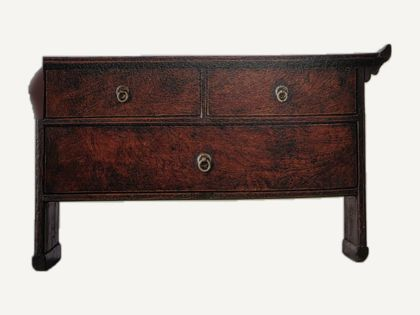
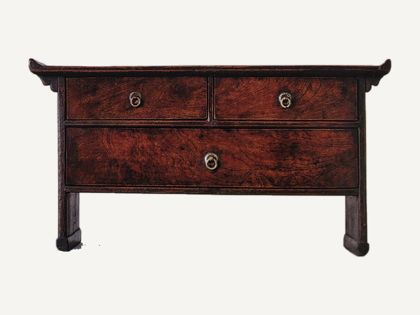
묵갤러리 서안(14번) 썸네일 교체
Claude-Session: https://claude.ai/code/session_0114wugw7GWov4PZ49bSWWjo

Changed region(s): [[0.0619, 0.1429, 0.9595, 0.8857]]

diff --git a/mukgallery.html b/mukgallery.html
@@ -103,7 +103,7 @@ dialog::backdrop{background:rgba(20,18,15,.55)}
 <script type="application/json" id="ds-items">[{"portal": "약장", "id": "M01", "name": "약장", "hanja": "", "kind": "약장", "type": "", "size_raw": "93.5×29×37.5", "era": "19세기", "owner": "묵갤러리 · 김미혜 소장", "page": ""}, {"portal": "약장", "id": "M02", "name": "약장", "hanja": "", "kind": "약장", "type": "", "size_raw": "75.7×29×105.5", "era": "19세기", "owner": "묵갤러리 · 김미혜 소장", "page": ""}, {"portal": "약장", "id": "M03", "name": "약장", "hanja": "", "kind": "약장", "type": "", "size_raw": "89.5×23×128", "era": "19세기", "owner": "묵갤러리 · 김미혜 소장", "page": ""}, {"portal": "반닫이", "id": "M04", "name": "숭쑹이 반닫이(맞뚫임 장식)", "hanja": "", "kind": "반닫이", "type": "", "size_raw": "96.5×46.5×95", "era": "19세기", "owner": "묵갤러리 · 김미혜 소장", "page": ""}, {"portal": "반닫이", "id": "M05", "name": "숭쑹이 반닫이", "hanja": "", "kind": "반닫이", "type": "", "size_raw": "51×32×51", "era": "19세기 후반", "owner": "묵갤러리 · 김미혜 소장", "page": ""}, {"portal": "반닫이", "id": "M06", "name": "강화 반닫이", "hanja": "", "kind": "반닫이", "type": "", "size_raw": "79×43.5×65.5", "era": "19세기", "owner": "묵갤러리 · 김미혜 소장", "page": ""}, {"portal": "반닫이", "id": "M07", "name": "반닫이(하문갑 구조)", "hanja": "", "kind": "반닫이", "type": "", "size_raw": "72.5×34.5×64", "era": "19세기", "owner": "묵갤러리 · 김미혜 소장", "page": ""}, {"portal": "반닫이", "id": "M08", "name": "밀양 반닫이", "hanja": "", "kind": "반닫이", "type": "", "size_raw": "79×41×60", "era": "19세기 후반", "owner": "묵갤러리 · 김미혜 소장", "page": ""}, {"portal": "반닫이", "id": "M09", "name": "나주 반닫이(문갑 구조)", "hanja": "", "kind": "반닫이", "type": "", "size_raw": "106×40×95", "era": "19세기", "owner": "묵갤러리 · 김미혜 소장", "page": ""}, {"portal": "서안", "id": "M10", "name": "서안", "hanja": "書案", "kind": "서안·경상·소반", "type": "", "size_raw": "68×31×33", "era": "19세기", "owner": "묵갤러리 · 김미혜 소장", "page": ""}, {"portal": "소반", "id": "M11", "name": "해주소반", "hanja": "", "kind": "서안·경상·소반", "type": "", "size_raw": "14.5×29.5×26", "era": "19세기", "owner": "묵갤러리 · 김미혜 소장", "page": ""}, {"portal": "서안", "id": "M12", "name": "경상", "hanja": "經床", "kind": "서안·경상·소반", "type": "", "size_raw": "64.5×23.5×25", "era": "19세기", "owner": "묵갤러리 · 김미혜 소장", "page": ""}, {"portal": "서안", "id": "M13", "name": "서안", "hanja": "書案", "kind": "서안·경상·소반", "type": "", "size_raw": "50×24×23", "era": "19세기", "owner": "묵갤러리 · 김미혜 소장", "page": ""}, {"portal": "서안", "id": "M14", "name": "서안", "hanja": "書案", "kind": "서안·경상·소반", "type": "", "size_raw": "56.5×28.5×29", "era": "19세기", "owner": "묵갤러리 · 김미혜 소장", "page": ""}, {"portal": "서안", "id": "M15", "name": "서안", "hanja": "書案", "kind": "서안·경상·소반", "type": "", "size_raw": "69×29×39", "era": "19세기", "owner": "묵갤러리 · 김미혜 소장", "page": ""}, {"portal": "장·농", "id": "M16", "name": "이층책장(미닫이와 여닫이)", "hanja": "二層冊櫃", "kind": "책장·탁자", "type": "", "size_raw": "104×40×94", "era": "19세기", "owner": "묵갤러리 · 김미혜 소장", "page": ""}, {"portal": "장·농", "id": "M17", "name": "전주장", "hanja": "", "kind": "장·농", "type": "", "size_raw": "76×37×107", "era": "19세기", "owner": "묵갤러리 · 김미혜 소장", "page": ""}, {"portal": "장·농", "id": "M18", "name": "이층농", "hanja": "二層籠", "kind": "장·농", "type": "", "size_raw": "80×39.5×135", "era": "19세기 후반", "owner": "묵갤러리 · 김미혜 소장", "page": ""}, {"portal": "장·농", "id": "M19", "name": "이층농", "hanja": "二層籠", "kind": "장·농", "type": "", "size_raw": "70×39×93.4", "era": "19세기", "owner": "묵갤러리 · 김미혜 소장", "page": ""}, {"portal": "장·농", "id": "M20", "name": "삼층책장(상층 공간)", "hanja": "三層冊櫃", "kind": "책장·탁자", "type": "", "size_raw": "97×52×159", "era": "19세기", "owner": "묵갤러리 · 김미혜 소장", "page": ""}, {"portal": "", "id": "M21", "name": "책궤", "hanja": "冊櫃", "kind": "책장·탁자", "type": "", "size_raw": "72×27.5×50", "era": "19세기", "owner": "묵갤러리 · 김미혜 소장", "page": ""}, {"portal": "장·농", "id": "M22", "name": "책장", "hanja": "", "kind": "책장·탁자", "type": "", "size_raw": "122×42.5×94", "era": "19세기 초반", "owner": "묵갤러리 · 김미혜 소장", "page": ""}, {"portal": "장·농", "id": "M23", "name": "책장", "hanja": "", "kind": "책장·탁자", "type": "", "size_raw": "84×39×66", "era": "19세기 초반", "owner": "묵갤러리 · 김미혜 소장", "page": ""}, {"portal": "", "id": "M24", "name": "갑게수리", "hanja": "甲鎧受理", "kind": "함·상자·소품", "type": "", "size_raw": "107×33×56", "era": "19세기", "owner": "묵갤러리 · 김미혜 소장", "page": ""}, {"portal": "사방탁자", "id": "M25", "name": "사층탁자(유리 그림)", "hanja": "四層卓子", "kind": "책장·탁자", "type": "", "size_raw": "59×37.5×180", "era": "19세기", "owner": "묵갤러리 · 김미혜 소장", "page": ""}, {"portal": "장·농", "id": "M26", "name": "삼층화초장", "hanja": "", "kind": "장·농", "type": "", "size_raw": "104×47.5×152.5", "era": "19세기 후반", "owner": "묵갤러리 · 김미혜 소장", "page": ""}, {"portal": "", "id": "M27", "name": "책탁", "hanja": "冊卓", "kind": "책장·탁자", "type": "", "size_raw": "68×33×105", "era": "19세기 초반", "owner": "묵갤러리 · 김미혜 소장", "page": ""}, {"portal": "장·농", "id": "M28", "name": "삼층책장", "hanja": "三層冊櫃", "kind": "책장·탁자", "type": "", "size_raw": "111×47×160.5", "era": "19세기", "owner": "묵갤러리 · 김미혜 소장", "page": ""}, {"portal": "장·농", "id": "M29", "name": "지장", "hanja": "", "kind": "장·농", "type": "", "size_raw": "103×23×158.5", "era": "19세기", "owner": "묵갤러리 · 김미혜 소장", "page": ""}, {"portal": "", "id": "M30", "name": "향탁", "hanja": "香卓", "kind": "책장·탁자", "type": "", "size_raw": "52×28×61", "era": "19세기 초반", "owner": "묵갤러리 · 김미혜 소장", "page": ""}, {"portal": "", "id": "M31", "name": "고비·등가·촛대", "hanja": "考備", "kind": "함·상자·소품", "type": "", "size_raw": "고비 10.5×6.5×85 · 등가 높이 44 · 촛대 높이 115", "era": "19세기", "owner": "묵갤러리 · 김미혜 소장", "page": ""}, {"portal": "", "id": "M32", "name": "갑게수리", "hanja": "甲鎧受理", "kind": "함·상자·소품", "type": "", "size_raw": "56×29×30.5", "era": "19세기", "owner": "묵갤러리 · 김미혜 소장", "page": ""}, {"portal": "", "id": "M33", "name": "함", "hanja": "函", "kind": "함·상자·소품", "type": "", "size_raw": "48.5×33×17", "era": "19세기", "owner": "묵갤러리 · 김미혜 소장", "page": ""}, {"portal": "", "id": "M34", "name": "엽전궤", "hanja": "葉錢櫃", "kind": "함·상자·소품", "type": "", "size_raw": "92.5×42×48", "era": "19세기 초반", "owner": "묵갤러리 · 김미혜 소장", "page": ""}, {"portal": "", "id": "M35", "name": "약연", "hanja": "", "kind": "함·상자·소품", "type": "", "size_raw": "31×6×5 · 26×9×7.5", "era": "19세기", "owner": "묵갤러리 · 김미혜 소장", "page": ""}, {"portal": "", "id": "M36", "name": "화약통", "hanja": "火藥筒", "kind": "함·상자·소품", "type": "", "size_raw": "11.5×6.5×2.5 · 22×12×5 · 20×11.5×3", "era": "19세기", "owner": "묵갤러리 · 김미혜 소장", "page": ""}, {"portal": "", "id": "M37", "name": "무관용 장식꽃이", "hanja": "", "kind": "함·상자·소품", "type": "", "size_raw": "함 높이 41.5 · 수염 길이 38", "era": "19세기", "owner": "묵갤러리 · 김미혜 소장", "page": ""}]</script>
 <script type="application/json" id="ds-photos">[{"id": "M01", "img": "thumbs/mukgallery/1.jpg?v=20261115"}, {"id": "M02", "img": "thumbs/mukgallery/2.jpg?v=20261115"}, {"id": "M03", "img": "thumbs/mukgallery/3.jpg?v=20261115"}, {"id": "M04", "img": "thumbs/mukgallery/4.jpg?v=20261115"}, {"id": "M05", "img": "thumbs/mukgallery/5.jpg?v=20261115"}, {"id": "M06", "img": "thumbs/mukgallery/6.jpg?v=20261115"}, {"id": "M07", "img": "thumbs/mukgallery/7.jpg?v=20261115"}, {"id": "M08", "img": "thumbs/mukgallery/8.jpg?v=20261115"}, {"id": "M09", "img": "thumbs/mukgallery/9.jpg?v=20261115"}, {"id": "M10", "img": "thumbs/mukgallery/10.jpg?v=20261115"}, {"id": "M11", "img": "thumbs/mukgallery/11.jpg?v=20261115"}, {"id": "M12", "img": "thumbs/mukgallery/12.jpg?v=20261115"}, {"id": "M13", "img": "thumbs/mukgallery/13.jpg?v=20261115"}, {"id": "M14", "img": "thumbs/mukgallery/14.jpg?v=20261115"}, {"id": "M15", "img": "thumbs/mukgallery/15.jpg?v=20261115"}, {"id": "M16", "img": "thumbs/mukgallery/16.jpg?v=20261115"}, {"id": "M17", "img": "thumbs/mukgallery/17.jpg?v=20261115"}, {"id": "M18", "img": "thumbs/mukgallery/18.jpg?v=20261115"}, {"id": "M19", "img": "thumbs/mukgallery/19.jpg?v=20261115"}, {"id": "M20", "img": "thumbs/mukgallery/20.jpg?v=20261115"}, {"id": "M21", "img": "thumbs/mukgallery/21.jpg?v=20261115"}, {"id": "M22", "img": "thumbs/mukgallery/22.jpg?v=20261115"}, {"id": "M23", "img": "thumbs/mukgallery/23.jpg?v=20261115"}, {"id": "M24", "img": "thumbs/mukgallery/24.jpg?v=20261115"}, {"id": "M25", "img": "thumbs/mukgallery/25.jpg?v=20261115"}, {"id": "M26", "img": "thumbs/mukgallery/26.jpg?v=20261115"}, {"id": "M27", "img": "thumbs/mukgallery/27.jpg?v=20261115"}, {"id": "M28", "img": "thumbs/mukgallery/28.jpg?v=20261115"}, {"id": "M29", "img": "thumbs/mukgallery/29.jpg?v=20261115"}, {"id": "M30", "img": "thumbs/mukgallery/30.jpg?v=20261115"}, {"id": "M31", "img": "thumbs/mukgallery/31.jpg?v=20261115"}, {"id": "M32", "img": "thumbs/mukgallery/32.jpg?v=20261115"}, {"id": "M33", "img": "thumbs/mukgallery/33.jpg?v=20261115"}, {"id": "M34", "img": "thumbs/mukgallery/34.jpg?v=20261115"}, {"id": "M35", "img": "thumbs/mukgallery/35.jpg?v=20261115"}, {"id": "M36", "img": "thumbs/mukgallery/36.jpg?v=20261115"}, {"id": "M37", "img": "thumbs/mukgallery/37.jpg?v=20261115"}]</script>
 <script>
-const ITEMS = [{"id": "M01", "kind": "약장", "name": "약장", "hanja": "", "cat": "Medicine Chest", "era": "19세기", "size": "93.5×29×37.5", "wood": "호두나무", "place": "경기도", "memo": "", "no": 1, "pics": [{"src": "https://jungmono.github.io/mokgagu-photos/photos/mukgallery/M01.jpg?v=20261115", "w": 1800, "h": 1350}]}, {"id": "M02", "kind": "약장", "name": "약장", "hanja": "", "cat": "Medicine Chest", "era": "19세기", "size": "75.7×29×105.5", "wood": "오동나무", "place": "", "memo": "작은 약장과 함께 찍은 사진.", "no": 2, "pics": [{"src": "https://jungmono.github.io/mokgagu-photos/photos/mukgallery/M02.jpg?v=20261115", "w": 1800, "h": 1350}]}, {"id": "M03", "kind": "약장", "name": "약장", "hanja": "", "cat": "Medicine Chest", "era": "19세기", "size": "89.5×23×128", "wood": "피나무", "place": "", "memo": "", "no": 3, "pics": [{"src": "https://jungmono.github.io/mokgagu-photos/photos/mukgallery/M03.jpg?v=20261115", "w": 1350, "h": 1800}, {"src": "https://jungmono.github.io/mokgagu-photos/photos/mukgallery/M03-2.jpg?v=20261115", "w": 1350, "h": 1800}]}, {"id": "M04", "kind": "반닫이", "name": "숭쑹이 반닫이(맞뚫임 장식)", "hanja": "", "cat": "Chest with Hinged Front Flap", "era": "19세기", "size": "96.5×46.5×95", "wood": "피나무", "place": "평안도", "memo": "", "no": 4, "pics": [{"src": "https://jungmono.github.io/mokgagu-photos/photos/mukgallery/M04.jpg?v=20261115", "w": 1349, "h": 1800}]}, {"id": "M05", "kind": "반닫이", "name": "숭쑹이 반닫이", "hanja": "", "cat": "Chest with Hinged Front Flap", "era": "19세기 후반", "size": "51×32×51", "wood": "피나무·주칠", "place": "평안도", "memo": "", "no": 5, "pics": [{"src": "https://jungmono.github.io/mokgagu-photos/photos/mukgallery/M05.jpg?v=20261115", "w": 1629, "h": 1221}]}, {"id": "M06", "kind": "반닫이", "name": "강화 반닫이", "hanja": "", "cat": "Chest with Hinged Front Flap", "era": "19세기", "size": "79×43.5×65.5", "wood": "느티나무", "place": "경기도 강화", "memo": "도록 표기: 강화반닫이.", "no": 6, "pics": [{"src": "https://jungmono.github.io/mokgagu-photos/photos/mukgallery/M06.jpg?v=20261115", "w": 1715, "h": 1286}, {"src": "https://jungmono.github.io/mokgagu-photos/photos/mukgallery/M06-2.jpg?v=20261115", "w": 1350, "h": 1800}]}, {"id": "M07", "kind": "반닫이", "name": "반닫이(하문갑 구조)", "hanja": "", "cat": "Chest with Hinged Front Flap", "era": "19세기", "size": "72.5×34.5×64", "wood": "피나무", "place": "", "memo": "", "no": 7, "pics": [{"src": "https://jungmono.github.io/mokgagu-photos/photos/mukgallery/M07.jpg?v=20261115", "w": 1800, "h": 1350}]}, {"id": "M08", "kind": "반닫이", "name": "밀양 반닫이", "hanja": "", "cat": "Chest with Hinged Front Flap", "era": "19세기 후반", "size": "79×41×60", "wood": "느티나무", "place": "경상남도 밀양", "memo": "도록 표기: 반닫이, 경상남도 밀양.", "no": 8, "pics": [{"src": "https://jungmono.github.io/mokgagu-photos/photos/mukgallery/M08.jpg?v=20261115", "w": 1800, "h": 1350}]}, {"id": "M09", "kind": "반닫이", "name": "나주 반닫이(문갑 구조)", "hanja": "", "cat": "Chest with Hinged Front Flap", "era": "19세기", "size": "106×40×95", "wood": "가래나무", "place": "전라남도 나주", "memo": "도록 표기: 반닫이(문갑 구조), 전라남도 나주.", "no": 9, "pics": [{"src": "https://jungmono.github.io/mokgagu-photos/photos/mukgallery/M09.jpg?v=20261115", "w": 1731, "h": 1298}, {"src": "https://jungmono.github.io/mokgagu-photos/photos/mukgallery/M09-2.jpg?v=20261115", "w": 1350, "h": 1800}]}, {"id": "M10", "kind": "서안·경상·소반", "name": "서안", "hanja": "書案", "cat": "Writing Desk", "era": "19세기", "size": "68×31×33", "wood": "느티나무", "place": "", "memo": "", "no": 10, "pics": [{"src": "https://jungmono.github.io/mokgagu-photos/photos/mukgallery/M10.jpg?v=20261115", "w": 1732, "h": 1299}]}, {"id": "M11", "kind": "서안·경상·소반", "name": "해주소반", "hanja": "", "cat": "Portable Table", "era": "19세기", "size": "14.5×29.5×26", "wood": "은행나무", "place": "황해도 해주", "memo": "크기는 도록 표기 그대로.", "no": 11, "pics": [{"src": "https://jungmono.github.io/mokgagu-photos/photos/mukgallery/M11.jpg?v=20261115", "w": 1800, "h": 1350}]}, {"id": "M12", "kind": "서안·경상·소반", "name": "경상", "hanja": "經床", "cat": "Scholar's Desk", "era": "19세기", "size": "64.5×23.5×25", "wood": "참죽나무", "place": "", "memo": "", "no": 12, "pics": [{"src": "https://jungmono.github.io/mokgagu-photos/photos/mukgallery/M12.jpg?v=20261115", "w": 1800, "h": 1350}]}, {"id": "M13", "kind": "서안·경상·소반", "name": "서안", "hanja": "書案", "cat": "Writing Desk", "era": "19세기", "size": "50×24×23", "wood": "은행나무", "place": "", "memo": "한 쪽에 두 점이 실림(위).", "no": 13, "pics": [{"src": "https://jungmono.github.io/mokgagu-photos/photos/mukgallery/M13.jpg?v=20261115", "w": 1360, "h": 1020}]}, {"id": "M14", "kind": "서안·경상·소반", "name": "서안", "hanja": "書案", "cat": "Writing Desk", "era": "19세기", "size": "56.5×28.5×29", "wood": "은행나무", "place": "", "memo": "한 쪽에 두 점이 실림(아래).", "no": 14, "pics": [{"src": "https://jungmono.github.io/mokgagu-photos/photos/mukgallery/M14.jpg?v=20261115", "w": 1394, "h": 1046}]}, {"id": "M15", "kind": "서안·경상·소반", "name": "서안", "hanja": "書案", "cat": "Writing Desk", "era": "19세기", "size": "69×29×39", "wood": "참죽나무", "place": "", "memo": "", "no": 15, "pics": [{"src": "https://jungmono.github.io/mokgagu-photos/photos/mukgallery/M15.jpg?v=20261115", "w": 1601, "h": 1201}]}, {"id": "M16", "kind": "책장·탁자", "name": "이층책장(미닫이와 여닫이)", "hanja": "二層冊櫃", "cat": "Two-tiered Book Chest", "era": "19세기", "size": "104×40×94", "wood": "참죽나무", "place": "경상남도 통영", "memo": "", "no": 16, "pics": [{"src": "https://jungmono.github.io/mokgagu-photos/photos/mukgallery/M16.jpg?v=20261115", "w": 1350, "h": 1800}]}, {"id": "M17", "kind": "장·농", "name": "전주장", "hanja": "", "cat": "Two-tiered Chest", "era": "19세기", "size": "76×37×107", "wood": "느티나무", "place": "전라북도 전주", "memo": "", "no": 17, "pics": [{"src": "https://jungmono.github.io/mokgagu-photos/photos/mukgallery/M17.jpg?v=20261115", "w": 1350, "h": 1800}]}, {"id": "M18", "kind": "장·농", "name": "이층농", "hanja": "二層籠", "cat": "Two-tiered Chest Inlaid with Mother-of-pearl", "era": "19세기 후반", "size": "80×39.5×135", "wood": "주칠·나전", "place": "경기도", "memo": "", "no": 18, "pics": [{"src": "https://jungmono.github.io/mokgagu-photos/photos/mukgallery/M18.jpg?v=20261115", "w": 1350, "h": 1800}, {"src": "https://jungmono.github.io/mokgagu-photos/photos/mukgallery/M18-2.jpg?v=20261115", "w": 1350, "h": 1800}]}, {"id": "M19", "kind": "장·농", "name": "이층농", "hanja": "二層籠", "cat": "Two-tiered Chest", "era": "19세기", "size": "70×39×93.4", "wood": "오동나무", "place": "경기도", "memo": "", "no": 19, "pics": [{"src": "https://jungmono.github.io/mokgagu-photos/photos/mukgallery/M19.jpg?v=20261115", "w": 1350, "h": 1800}]}, {"id": "M20", "kind": "책장·탁자", "name": "삼층책장(상층 공간)", "hanja": "三層冊櫃", "cat": "Three-tiered Book Chest", "era": "19세기", "size": "97×52×159", "wood": "물푸레나무", "place": "경기(내사)", "memo": "", "no": 20, "pics": [{"src": "https://jungmono.github.io/mokgagu-photos/photos/mukgallery/M20.jpg?v=20261115", "w": 1350, "h": 1800}]}, {"id": "M21", "kind": "책장·탁자", "name": "책궤", "hanja": "冊櫃", "cat": "Book Chest", "era": "19세기", "size": "72×27.5×50", "wood": "느티나무", "place": "", "memo": "", "no": 21, "pics": [{"src": "https://jungmono.github.io/mokgagu-photos/photos/mukgallery/M21.jpg?v=20261115", "w": 1646, "h": 1235}]}, {"id": "M22", "kind": "책장·탁자", "name": "책장", "hanja": "", "cat": "Book Chest", "era": "19세기 초반", "size": "122×42.5×94", "wood": "벽오동나무", "place": "", "memo": "", "no": 22, "pics": [{"src": "https://jungmono.github.io/mokgagu-photos/photos/mukgallery/M22.jpg?v=20261115", "w": 1800, "h": 1350}]}, {"id": "M23", "kind": "책장·탁자", "name": "책장", "hanja": "", "cat": "Book Chest", "era": "19세기 초반", "size": "84×39×66", "wood": "은행나무", "place": "", "memo": "", "no": 23, "pics": [{"src": "https://jungmono.github.io/mokgagu-photos/photos/mukgallery/M23.jpg?v=20261115", "w": 1786, "h": 1340}, {"src": "https://jungmono.github.io/mokgagu-photos/photos/mukgallery/M23-2.jpg?v=20261115", "w": 1350, "h": 1800}]}, {"id": "M24", "kind": "함·상자·소품", "name": "갑게수리", "hanja": "甲鎧受理", "cat": "Safety Box", "era": "19세기", "size": "107×33×56", "wood": "느티나무", "place": "경기도", "memo": "위쪽 작은 갑게수리는 문을 열어 속 서랍을 보인 사진.", "no": 24, "pics": [{"src": "https://jungmono.github.io/mokgagu-photos/photos/mukgallery/M24.jpg?v=20261115", "w": 1800, "h": 1350}]}, {"id": "M25", "kind": "책장·탁자", "name": "사층탁자(유리 그림)", "hanja": "四層卓子", "cat": "Four-tiered Flower Motive Chest", "era": "19세기", "size": "59×37.5×180", "wood": "화류목·유리", "place": "경기도", "memo": "", "no": 25, "pics": [{"src": "https://jungmono.github.io/mokgagu-photos/photos/mukgallery/M25.jpg?v=20261115", "w": 1350, "h": 1800}]}, {"id": "M26", "kind": "장·농", "name": "삼층화초장", "hanja": "", "cat": "Three-tiered Flower Motive Chest", "era": "19세기 후반", "size": "104×47.5×152.5", "wood": "나무에 주칠", "place": "경기도", "memo": "", "no": 26, "pics": [{"src": "https://jungmono.github.io/mokgagu-photos/photos/mukgallery/M26.jpg?v=20261115", "w": 1351, "h": 1800}]}, {"id": "M27", "kind": "책장·탁자", "name": "책탁", "hanja": "冊卓", "cat": "Book Shelf", "era": "19세기 초반", "size": "68×33×105", "wood": "소나무", "place": "경기도", "memo": "", "no": 27, "pics": [{"src": "https://jungmono.github.io/mokgagu-photos/photos/mukgallery/M27.jpg?v=20261115", "w": 1351, "h": 1800}]}, {"id": "M28", "kind": "책장·탁자", "name": "삼층책장", "hanja": "三層冊櫃", "cat": "Three-tiered Book Chest", "era": "19세기", "size": "111×47×160.5", "wood": "소나무", "place": "경기도", "memo": "", "no": 28, "pics": [{"src": "https://jungmono.github.io/mokgagu-photos/photos/mukgallery/M28.jpg?v=20261115", "w": 1350, "h": 1800}]}, {"id": "M29", "kind": "장·농", "name": "지장", "hanja": "", "cat": "Paper-covered Chest", "era": "19세기", "size": "103×23×158.5", "wood": "소나무", "place": "", "memo": "작은 지장과 함께 찍은 사진.", "no": 29, "pics": [{"src": "https://jungmono.github.io/mokgagu-photos/photos/mukgallery/M29.jpg?v=20261115", "w": 1350, "h": 1800}]}, {"id": "M30", "kind": "책장·탁자", "name": "향탁", "hanja": "香卓", "cat": "Incense Table", "era": "19세기 초반", "size": "52×28×61", "wood": "은행나무(행자목)", "place": "", "memo": "", "no": 30, "pics": [{"src": "https://jungmono.github.io/mokgagu-photos/photos/mukgallery/M30.jpg?v=20261115", "w": 1800, "h": 1350}]}, {"id": "M31", "kind": "함·상자·소품", "name": "고비·등가·촛대", "hanja": "考備", "cat": "Letter Holder · Lamp Stand · Candle Holder", "era": "19세기", "size": "고비 10.5×6.5×85 · 등가 높이 44 · 촛대 높이 115", "wood": "느티나무", "place": "", "memo": "고비는 편지꽂이. 한 쪽에 세 점이 실림.", "no": 31, "pics": [{"src": "https://jungmono.github.io/mokgagu-photos/photos/mukgallery/M31.jpg?v=20261115", "w": 1351, "h": 1800}]}, {"id": "M32", "kind": "함·상자·소품", "name": "갑게수리", "hanja": "甲鎧受理", "cat": "Safety Box", "era": "19세기", "size": "56×29×30.5", "wood": "느티나무(안쪽 피나무)", "place": "", "memo": "한 쪽에 두 점이 실림(위 큰 것).", "no": 32, "pics": [{"src": "https://jungmono.github.io/mokgagu-photos/photos/mukgallery/M32.jpg?v=20261115", "w": 1800, "h": 1350}]}, {"id": "M33", "kind": "함·상자·소품", "name": "함", "hanja": "函", "cat": "Box", "era": "19세기", "size": "48.5×33×17", "wood": "오동나무", "place": "", "memo": "한 쪽에 두 점이 실림(아래).", "no": 33, "pics": [{"src": "https://jungmono.github.io/mokgagu-photos/photos/mukgallery/M33.jpg?v=20261115", "w": 1800, "h": 1350}]}, {"id": "M34", "kind": "함·상자·소품", "name": "엽전궤", "hanja": "葉錢櫃", "cat": "Coin Chest", "era": "19세기 초반", "size": "92.5×42×48", "wood": "소나무", "place": "경상남도 언양", "memo": "", "no": 34, "pics": [{"src": "https://jungmono.github.io/mokgagu-photos/photos/mukgallery/M34.jpg?v=20261115", "w": 1543, "h": 1157}]}, {"id": "M35", "kind": "함·상자·소품", "name": "약연", "hanja": "", "cat": "Medicine Grinder", "era": "19세기", "size": "31×6×5 · 26×9×7.5", "wood": "참죽나무 · 피나무", "place": "", "memo": "두 점(앞 참죽나무, 뒤 피나무).", "no": 35, "pics": [{"src": "https://jungmono.github.io/mokgagu-photos/photos/mukgallery/M35.jpg?v=20261115", "w": 1800, "h": 1350}]}, {"id": "M36", "kind": "함·상자·소품", "name": "화약통", "hanja": "火藥筒", "cat": "Gun Powder Case", "era": "19세기", "size": "11.5×6.5×2.5 · 22×12×5 · 20×11.5×3", "wood": "", "place": "", "memo": "세 점.", "no": 36, "pics": [{"src": "https://jungmono.github.io/mokgagu-photos/photos/mukgallery/M36.jpg?v=20261115", "w": 1774, "h": 1331}]}, {"id": "M37", "kind": "함·상자·소품", "name": "무관용 장식꽃이", "hanja": "", "cat": "Horangyisuyum and Case", "era": "19세기", "size": "함 높이 41.5 · 수염 길이 38", "wood": "오동나무 · 호랑이 수염", "place": "", "memo": "", "no": 37, "pics": [{"src": "https://jungmono.github.io/mokgagu-photos/photos/mukgallery/M37.jpg?v=20261115", "w": 1350, "h": 1800}]}];
+const ITEMS = [{"id": "M01", "kind": "약장", "name": "약장", "hanja": "", "cat": "Medicine Chest", "era": "19세기", "size": "93.5×29×37.5", "wood": "호두나무", "place": "경기도", "memo": "", "no": 1, "pics": [{"src": "https://jungmono.github.io/mokgagu-photos/photos/mukgallery/M01.jpg?v=20261115", "w": 1800, "h": 1350}]}, {"id": "M02", "kind": "약장", "name": "약장", "hanja": "", "cat": "Medicine Chest", "era": "19세기", "size": "75.7×29×105.5", "wood": "오동나무", "place": "", "memo": "작은 약장과 함께 찍은 사진.", "no": 2, "pics": [{"src": "https://jungmono.github.io/mokgagu-photos/photos/mukgallery/M02.jpg?v=20261115", "w": 1800, "h": 1350}]}, {"id": "M03", "kind": "약장", "name": "약장", "hanja": "", "cat": "Medicine Chest", "era": "19세기", "size": "89.5×23×128", "wood": "피나무", "place": "", "memo": "", "no": 3, "pics": [{"src": "https://jungmono.github.io/mokgagu-photos/photos/mukgallery/M03.jpg?v=20261115", "w": 1350, "h": 1800}, {"src": "https://jungmono.github.io/mokgagu-photos/photos/mukgallery/M03-2.jpg?v=20261115", "w": 1350, "h": 1800}]}, {"id": "M04", "kind": "반닫이", "name": "숭쑹이 반닫이(맞뚫임 장식)", "hanja": "", "cat": "Chest with Hinged Front Flap", "era": "19세기", "size": "96.5×46.5×95", "wood": "피나무", "place": "평안도", "memo": "", "no": 4, "pics": [{"src": "https://jungmono.github.io/mokgagu-photos/photos/mukgallery/M04.jpg?v=20261115", "w": 1349, "h": 1800}]}, {"id": "M05", "kind": "반닫이", "name": "숭쑹이 반닫이", "hanja": "", "cat": "Chest with Hinged Front Flap", "era": "19세기 후반", "size": "51×32×51", "wood": "피나무·주칠", "place": "평안도", "memo": "", "no": 5, "pics": [{"src": "https://jungmono.github.io/mokgagu-photos/photos/mukgallery/M05.jpg?v=20261115", "w": 1629, "h": 1221}]}, {"id": "M06", "kind": "반닫이", "name": "강화 반닫이", "hanja": "", "cat": "Chest with Hinged Front Flap", "era": "19세기", "size": "79×43.5×65.5", "wood": "느티나무", "place": "경기도 강화", "memo": "도록 표기: 강화반닫이.", "no": 6, "pics": [{"src": "https://jungmono.github.io/mokgagu-photos/photos/mukgallery/M06.jpg?v=20261115", "w": 1715, "h": 1286}, {"src": "https://jungmono.github.io/mokgagu-photos/photos/mukgallery/M06-2.jpg?v=20261115", "w": 1350, "h": 1800}]}, {"id": "M07", "kind": "반닫이", "name": "반닫이(하문갑 구조)", "hanja": "", "cat": "Chest with Hinged Front Flap", "era": "19세기", "size": "72.5×34.5×64", "wood": "피나무", "place": "", "memo": "", "no": 7, "pics": [{"src": "https://jungmono.github.io/mokgagu-photos/photos/mukgallery/M07.jpg?v=20261115", "w": 1800, "h": 1350}]}, {"id": "M08", "kind": "반닫이", "name": "밀양 반닫이", "hanja": "", "cat": "Chest with Hinged Front Flap", "era": "19세기 후반", "size": "79×41×60", "wood": "느티나무", "place": "경상남도 밀양", "memo": "도록 표기: 반닫이, 경상남도 밀양.", "no": 8, "pics": [{"src": "https://jungmono.github.io/mokgagu-photos/photos/mukgallery/M08.jpg?v=20261115", "w": 1800, "h": 1350}]}, {"id": "M09", "kind": "반닫이", "name": "나주 반닫이(문갑 구조)", "hanja": "", "cat": "Chest with Hinged Front Flap", "era": "19세기", "size": "106×40×95", "wood": "가래나무", "place": "전라남도 나주", "memo": "도록 표기: 반닫이(문갑 구조), 전라남도 나주.", "no": 9, "pics": [{"src": "https://jungmono.github.io/mokgagu-photos/photos/mukgallery/M09.jpg?v=20261115", "w": 1731, "h": 1298}, {"src": "https://jungmono.github.io/mokgagu-photos/photos/mukgallery/M09-2.jpg?v=20261115", "w": 1350, "h": 1800}]}, {"id": "M10", "kind": "서안·경상·소반", "name": "서안", "hanja": "書案", "cat": "Writing Desk", "era": "19세기", "size": "68×31×33", "wood": "느티나무", "place": "", "memo": "", "no": 10, "pics": [{"src": "https://jungmono.github.io/mokgagu-photos/photos/mukgallery/M10.jpg?v=20261115", "w": 1732, "h": 1299}]}, {"id": "M11", "kind": "서안·경상·소반", "name": "해주소반", "hanja": "", "cat": "Portable Table", "era": "19세기", "size": "14.5×29.5×26", "wood": "은행나무", "place": "황해도 해주", "memo": "크기는 도록 표기 그대로.", "no": 11, "pics": [{"src": "https://jungmono.github.io/mokgagu-photos/photos/mukgallery/M11.jpg?v=20261115", "w": 1800, "h": 1350}]}, {"id": "M12", "kind": "서안·경상·소반", "name": "경상", "hanja": "經床", "cat": "Scholar's Desk", "era": "19세기", "size": "64.5×23.5×25", "wood": "참죽나무", "place": "", "memo": "", "no": 12, "pics": [{"src": "https://jungmono.github.io/mokgagu-photos/photos/mukgallery/M12.jpg?v=20261115", "w": 1800, "h": 1350}]}, {"id": "M13", "kind": "서안·경상·소반", "name": "서안", "hanja": "書案", "cat": "Writing Desk", "era": "19세기", "size": "50×24×23", "wood": "은행나무", "place": "", "memo": "한 쪽에 두 점이 실림(위).", "no": 13, "pics": [{"src": "https://jungmono.github.io/mokgagu-photos/photos/mukgallery/M13.jpg?v=20261115", "w": 1360, "h": 1020}]}, {"id": "M14", "kind": "서안·경상·소반", "name": "서안", "hanja": "書案", "cat": "Writing Desk", "era": "19세기", "size": "56.5×28.5×29", "wood": "은행나무", "place": "", "memo": "한 쪽에 두 점이 실림(아래).", "no": 14, "pics": [{"src": "https://jungmono.github.io/mokgagu-photos/photos/mukgallery/M14.jpg?v=20261115", "w": 1800, "h": 1350}]}, {"id": "M15", "kind": "서안·경상·소반", "name": "서안", "hanja": "書案", "cat": "Writing Desk", "era": "19세기", "size": "69×29×39", "wood": "참죽나무", "place": "", "memo": "", "no": 15, "pics": [{"src": "https://jungmono.github.io/mokgagu-photos/photos/mukgallery/M15.jpg?v=20261115", "w": 1601, "h": 1201}]}, {"id": "M16", "kind": "책장·탁자", "name": "이층책장(미닫이와 여닫이)", "hanja": "二層冊櫃", "cat": "Two-tiered Book Chest", "era": "19세기", "size": "104×40×94", "wood": "참죽나무", "place": "경상남도 통영", "memo": "", "no": 16, "pics": [{"src": "https://jungmono.github.io/mokgagu-photos/photos/mukgallery/M16.jpg?v=20261115", "w": 1350, "h": 1800}]}, {"id": "M17", "kind": "장·농", "name": "전주장", "hanja": "", "cat": "Two-tiered Chest", "era": "19세기", "size": "76×37×107", "wood": "느티나무", "place": "전라북도 전주", "memo": "", "no": 17, "pics": [{"src": "https://jungmono.github.io/mokgagu-photos/photos/mukgallery/M17.jpg?v=20261115", "w": 1350, "h": 1800}]}, {"id": "M18", "kind": "장·농", "name": "이층농", "hanja": "二層籠", "cat": "Two-tiered Chest Inlaid with Mother-of-pearl", "era": "19세기 후반", "size": "80×39.5×135", "wood": "주칠·나전", "place": "경기도", "memo": "", "no": 18, "pics": [{"src": "https://jungmono.github.io/mokgagu-photos/photos/mukgallery/M18.jpg?v=20261115", "w": 1350, "h": 1800}, {"src": "https://jungmono.github.io/mokgagu-photos/photos/mukgallery/M18-2.jpg?v=20261115", "w": 1350, "h": 1800}]}, {"id": "M19", "kind": "장·농", "name": "이층농", "hanja": "二層籠", "cat": "Two-tiered Chest", "era": "19세기", "size": "70×39×93.4", "wood": "오동나무", "place": "경기도", "memo": "", "no": 19, "pics": [{"src": "https://jungmono.github.io/mokgagu-photos/photos/mukgallery/M19.jpg?v=20261115", "w": 1350, "h": 1800}]}, {"id": "M20", "kind": "책장·탁자", "name": "삼층책장(상층 공간)", "hanja": "三層冊櫃", "cat": "Three-tiered Book Chest", "era": "19세기", "size": "97×52×159", "wood": "물푸레나무", "place": "경기(내사)", "memo": "", "no": 20, "pics": [{"src": "https://jungmono.github.io/mokgagu-photos/photos/mukgallery/M20.jpg?v=20261115", "w": 1350, "h": 1800}]}, {"id": "M21", "kind": "책장·탁자", "name": "책궤", "hanja": "冊櫃", "cat": "Book Chest", "era": "19세기", "size": "72×27.5×50", "wood": "느티나무", "place": "", "memo": "", "no": 21, "pics": [{"src": "https://jungmono.github.io/mokgagu-photos/photos/mukgallery/M21.jpg?v=20261115", "w": 1646, "h": 1235}]}, {"id": "M22", "kind": "책장·탁자", "name": "책장", "hanja": "", "cat": "Book Chest", "era": "19세기 초반", "size": "122×42.5×94", "wood": "벽오동나무", "place": "", "memo": "", "no": 22, "pics": [{"src": "https://jungmono.github.io/mokgagu-photos/photos/mukgallery/M22.jpg?v=20261115", "w": 1800, "h": 1350}]}, {"id": "M23", "kind": "책장·탁자", "name": "책장", "hanja": "", "cat": "Book Chest", "era": "19세기 초반", "size": "84×39×66", "wood": "은행나무", "place": "", "memo": "", "no": 23, "pics": [{"src": "https://jungmono.github.io/mokgagu-photos/photos/mukgallery/M23.jpg?v=20261115", "w": 1786, "h": 1340}, {"src": "https://jungmono.github.io/mokgagu-photos/photos/mukgallery/M23-2.jpg?v=20261115", "w": 1350, "h": 1800}]}, {"id": "M24", "kind": "함·상자·소품", "name": "갑게수리", "hanja": "甲鎧受理", "cat": "Safety Box", "era": "19세기", "size": "107×33×56", "wood": "느티나무", "place": "경기도", "memo": "위쪽 작은 갑게수리는 문을 열어 속 서랍을 보인 사진.", "no": 24, "pics": [{"src": "https://jungmono.github.io/mokgagu-photos/photos/mukgallery/M24.jpg?v=20261115", "w": 1800, "h": 1350}]}, {"id": "M25", "kind": "책장·탁자", "name": "사층탁자(유리 그림)", "hanja": "四層卓子", "cat": "Four-tiered Flower Motive Chest", "era": "19세기", "size": "59×37.5×180", "wood": "화류목·유리", "place": "경기도", "memo": "", "no": 25, "pics": [{"src": "https://jungmono.github.io/mokgagu-photos/photos/mukgallery/M25.jpg?v=20261115", "w": 1350, "h": 1800}]}, {"id": "M26", "kind": "장·농", "name": "삼층화초장", "hanja": "", "cat": "Three-tiered Flower Motive Chest", "era": "19세기 후반", "size": "104×47.5×152.5", "wood": "나무에 주칠", "place": "경기도", "memo": "", "no": 26, "pics": [{"src": "https://jungmono.github.io/mokgagu-photos/photos/mukgallery/M26.jpg?v=20261115", "w": 1351, "h": 1800}]}, {"id": "M27", "kind": "책장·탁자", "name": "책탁", "hanja": "冊卓", "cat": "Book Shelf", "era": "19세기 초반", "size": "68×33×105", "wood": "소나무", "place": "경기도", "memo": "", "no": 27, "pics": [{"src": "https://jungmono.github.io/mokgagu-photos/photos/mukgallery/M27.jpg?v=20261115", "w": 1351, "h": 1800}]}, {"id": "M28", "kind": "책장·탁자", "name": "삼층책장", "hanja": "三層冊櫃", "cat": "Three-tiered Book Chest", "era": "19세기", "size": "111×47×160.5", "wood": "소나무", "place": "경기도", "memo": "", "no": 28, "pics": [{"src": "https://jungmono.github.io/mokgagu-photos/photos/mukgallery/M28.jpg?v=20261115", "w": 1350, "h": 1800}]}, {"id": "M29", "kind": "장·농", "name": "지장", "hanja": "", "cat": "Paper-covered Chest", "era": "19세기", "size": "103×23×158.5", "wood": "소나무", "place": "", "memo": "작은 지장과 함께 찍은 사진.", "no": 29, "pics": [{"src": "https://jungmono.github.io/mokgagu-photos/photos/mukgallery/M29.jpg?v=20261115", "w": 1350, "h": 1800}]}, {"id": "M30", "kind": "책장·탁자", "name": "향탁", "hanja": "香卓", "cat": "Incense Table", "era": "19세기 초반", "size": "52×28×61", "wood": "은행나무(행자목)", "place": "", "memo": "", "no": 30, "pics": [{"src": "https://jungmono.github.io/mokgagu-photos/photos/mukgallery/M30.jpg?v=20261115", "w": 1800, "h": 1350}]}, {"id": "M31", "kind": "함·상자·소품", "name": "고비·등가·촛대", "hanja": "考備", "cat": "Letter Holder · Lamp Stand · Candle Holder", "era": "19세기", "size": "고비 10.5×6.5×85 · 등가 높이 44 · 촛대 높이 115", "wood": "느티나무", "place": "", "memo": "고비는 편지꽂이. 한 쪽에 세 점이 실림.", "no": 31, "pics": [{"src": "https://jungmono.github.io/mokgagu-photos/photos/mukgallery/M31.jpg?v=20261115", "w": 1351, "h": 1800}]}, {"id": "M32", "kind": "함·상자·소품", "name": "갑게수리", "hanja": "甲鎧受理", "cat": "Safety Box", "era": "19세기", "size": "56×29×30.5", "wood": "느티나무(안쪽 피나무)", "place": "", "memo": "한 쪽에 두 점이 실림(위 큰 것).", "no": 32, "pics": [{"src": "https://jungmono.github.io/mokgagu-photos/photos/mukgallery/M32.jpg?v=20261115", "w": 1800, "h": 1350}]}, {"id": "M33", "kind": "함·상자·소품", "name": "함", "hanja": "函", "cat": "Box", "era": "19세기", "size": "48.5×33×17", "wood": "오동나무", "place": "", "memo": "한 쪽에 두 점이 실림(아래).", "no": 33, "pics": [{"src": "https://jungmono.github.io/mokgagu-photos/photos/mukgallery/M33.jpg?v=20261115", "w": 1800, "h": 1350}]}, {"id": "M34", "kind": "함·상자·소품", "name": "엽전궤", "hanja": "葉錢櫃", "cat": "Coin Chest", "era": "19세기 초반", "size": "92.5×42×48", "wood": "소나무", "place": "경상남도 언양", "memo": "", "no": 34, "pics": [{"src": "https://jungmono.github.io/mokgagu-photos/photos/mukgallery/M34.jpg?v=20261115", "w": 1543, "h": 1157}]}, {"id": "M35", "kind": "함·상자·소품", "name": "약연", "hanja": "", "cat": "Medicine Grinder", "era": "19세기", "size": "31×6×5 · 26×9×7.5", "wood": "참죽나무 · 피나무", "place": "", "memo": "두 점(앞 참죽나무, 뒤 피나무).", "no": 35, "pics": [{"src": "https://jungmono.github.io/mokgagu-photos/photos/mukgallery/M35.jpg?v=20261115", "w": 1800, "h": 1350}]}, {"id": "M36", "kind": "함·상자·소품", "name": "화약통", "hanja": "火藥筒", "cat": "Gun Powder Case", "era": "19세기", "size": "11.5×6.5×2.5 · 22×12×5 · 20×11.5×3", "wood": "", "place": "", "memo": "세 점.", "no": 36, "pics": [{"src": "https://jungmono.github.io/mokgagu-photos/photos/mukgallery/M36.jpg?v=20261115", "w": 1774, "h": 1331}]}, {"id": "M37", "kind": "함·상자·소품", "name": "무관용 장식꽃이", "hanja": "", "cat": "Horangyisuyum and Case", "era": "19세기", "size": "함 높이 41.5 · 수염 길이 38", "wood": "오동나무 · 호랑이 수염", "place": "", "memo": "", "no": 37, "pics": [{"src": "https://jungmono.github.io/mokgagu-photos/photos/mukgallery/M37.jpg?v=20261115", "w": 1350, "h": 1800}]}];
 const THUMB = Object.fromEntries(JSON.parse(document.getElementById('ds-photos').textContent).map((p) => [p.id, p.img]));
 const GRPS = ["반닫이", "약장", "장·농", "책장·탁자", "서안·경상·소반", "함·상자·소품"];
 const ERAS = [];
